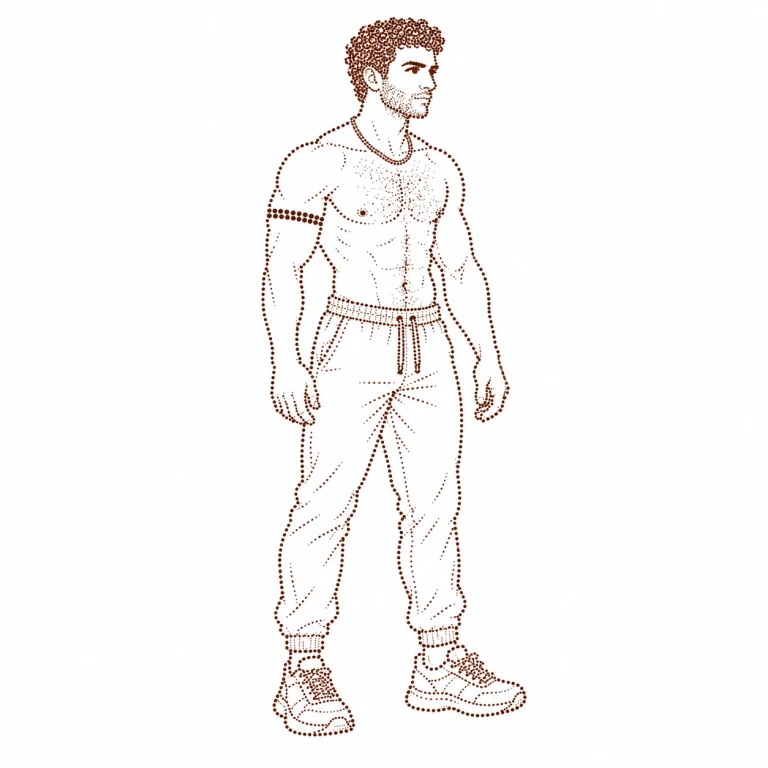
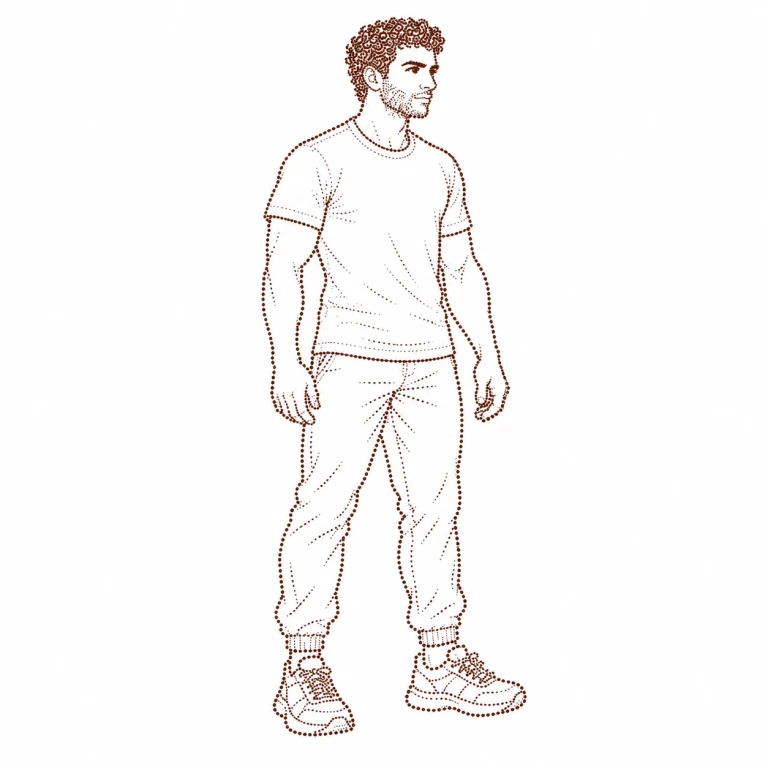
Clothe Body illustrations and improve WHOOP reconnection

diff --git a/scripts/scheduled_health.py b/scripts/scheduled_health.py
@@ -31,6 +31,7 @@ TOTAL_TIMEOUT = 600
 POLL_SECONDS = 15
 REFRESH_SECONDS = 3600
 RETRY_SECONDS = 300
+AUTH_RETRY_SECONDS = 3600
 WAKE_SETTLE_SECONDS = 30
 LOG_LIMIT = 64 * 1024
 MAX_RESPONSE = 8 * 1024 * 1024
@@ -275,7 +276,16 @@ def latest_wake():
         return None
 
 
-def refresh_due(previous, now, wake=None):
+def credential_version(dataset):
+    """Observe replacement credentials without reading or logging their contents."""
+    path = Path.home() / (".whoop-mcp/tokens.json" if dataset == "health" else ".config/hevy/api-key")
+    try:
+        return str(path.stat().st_mtime_ns)
+    except OSError:
+        return None
+
+
+def refresh_due(previous, now, wake=None, credentials=None):
     """Minute ticks do no network work until hourly, retry, or new-wake due."""
     started = timestamp_seconds(previous.get("started_at"))
     finished = timestamp_seconds(previous.get("finished_at"))
@@ -286,6 +296,13 @@ def refresh_due(previous, now, wake=None):
         return True, "initial"
     if started > now or success is not None and success > now or finished is not None and finished > now:
         return True, "clock_changed"
+    auth_failed = previous.get("error", {}).get("code") in {"whoop_auth_failed", "hevy_auth_failed"}
+    if auth_failed:
+        if credentials is not None and credentials != previous.get("credential_version"):
+            return True, "credentials_changed"
+        # Invalid grants need sign-in, not repeated token exchanges every five
+        # minutes. Keep an hourly fallback for externally repaired connections.
+        return now - max(started, finished or started) >= AUTH_RETRY_SECONDS, "authorization_required"
     if wake is not None and started < wake <= now:
         return True, "wake"
     # After a wake has triggered an attempt, its subsequent ticks obey backoff.
@@ -348,7 +365,7 @@ def run(cache=None, budget=TOTAL_TIMEOUT, respect_schedule=False):
         due_datasets = []
         for dataset in PUBLIC_URLS:
             old = previous_datasets.get(dataset, {})
-            due, reason = refresh_due(old, time.time(), wake) if respect_schedule else (True, "manual")
+            due, reason = refresh_due(old, time.time(), wake, credential_version(dataset)) if respect_schedule else (True, "manual")
             if due:
                 due_datasets.append(dataset)
         if respect_schedule:
@@ -367,7 +384,8 @@ def run(cache=None, budget=TOTAL_TIMEOUT, respect_schedule=False):
             # deployment stalls. Successful sources keep their hourly cadence.
             source_deadline = time.monotonic() + max(0, deadline - time.monotonic()) / (len(due_datasets) - index)
             source_status = {"status": "running", "started_at": utc_now(), "finished_at": None,
-                             "last_success_at": previous_datasets.get(dataset, {}).get("last_success_at")}
+                             "last_success_at": previous_datasets.get(dataset, {}).get("last_success_at"),
+                             "credential_version": credential_version(dataset)}
             status["datasets"][dataset] = source_status
             write_status(cache, status)
             try:
@@ -424,9 +442,14 @@ def run(cache=None, budget=TOTAL_TIMEOUT, respect_schedule=False):
 
 
 def main():
-    # launchd has private fallback stdout/stderr files, but ordinary runs are
-    # silent. Read scheduled-status.json for the bounded, sanitized result.
-    return 1 if run(respect_schedule=True)["status"] == "failed" else 0
+    previous = previous_status(CACHE).get("datasets", {}).get("health", {})
+    result = run(respect_schedule=True)
+    health = result.get("datasets", {}).get("health", {})
+    if (health.get("error", {}).get("code") == "whoop_auth_failed"
+            and previous.get("error", {}).get("code") != "whoop_auth_failed"):
+        print("WHOOP sign-in is required. Run ~/.local/share/whoop-codex/.venv/bin/python "
+              "~/.local/share/whoop-codex/health-sync/scripts/reconnect_whoop.py", file=sys.stderr)
+    return 1 if result["status"] == "failed" else 0
 
 
 if __name__ == "__main__":

diff --git a/scripts/test_scheduled_health.py b/scripts/test_scheduled_health.py
@@ -1,0 +1,57 @@
+import unittest
+from unittest.mock import patch
+from datetime import datetime, timezone
+import scheduled_health as scheduler
+import reconnect_whoop
+
+
+class SchedulingTests(unittest.TestCase):
+    def setUp(self):
+        self.now = datetime(2026, 10, 27, 22, tzinfo=timezone.utc).timestamp()
+        self.failed = dict(status='failed', started_at='2026-10-27T21:54:00Z',
+                           finished_at='2026-10-27T21:55:00Z', credential_version='old',
+                           error={'code': 'whoop_auth_failed'})
+
+    def test_reconnect_detected_on_next_tick(self):
+        self.assertEqual(scheduler.refresh_due(self.failed, self.now, credentials='new'),
+                         (True, 'credentials_changed'))
+
+    def test_revoked_grant_is_not_retried_every_five_minutes(self):
+        self.assertEqual(scheduler.refresh_due(self.failed, self.now, credentials='old'),
+                         (False, 'authorization_required'))
+
+    def test_auth_fallback_retries_hourly(self):
+        self.assertEqual(scheduler.refresh_due(self.failed, self.now + 3300, credentials='old'),
+                         (True, 'authorization_required'))
+
+    def test_network_failure_keeps_five_minute_retry(self):
+        self.failed['error']['code'] = 'network_unavailable'
+        self.assertEqual(scheduler.refresh_due(self.failed, self.now, credentials='old'), (True, 'retry'))
+
+    def test_new_wake_refreshes_healthy_source(self):
+        self.failed.update(status='success', last_success_at='2026-10-27T21:55:00Z', error={})
+        self.assertEqual(scheduler.refresh_due(self.failed, self.now, self.now - 60), (True, 'wake'))
+
+    def test_waits_for_network_after_wake(self):
+        self.assertEqual(scheduler.refresh_due(self.failed, self.now, self.now - 10, 'new'),
+                         (False, 'wake_settling'))
+
+    def test_missing_credentials_back_off(self):
+        self.assertEqual(scheduler.refresh_due(self.failed, self.now), (False, 'authorization_required'))
+
+    def test_reconnect_failure_does_not_publish(self):
+        with patch('reconnect_whoop.subprocess.run') as auth, patch('reconnect_whoop.scheduled_health.run') as publish:
+            auth.return_value.returncode = 1
+            self.assertEqual(reconnect_whoop.main(), 1)
+            publish.assert_not_called()
+
+    def test_reconnect_verifies_live_publication(self):
+        with patch('reconnect_whoop.subprocess.run') as auth, patch('reconnect_whoop.scheduled_health.run') as publish:
+            auth.return_value.returncode = 0
+            publish.return_value = {'datasets': {'health': {'status': 'success', 'generated_at': '2026-10-27T22:00:00Z'}}}
+            self.assertEqual(reconnect_whoop.main(), 0)
+            publish.assert_called_once_with()
+
+
+if __name__ == '__main__':
+    unittest.main()

diff --git a/scripts/reconnect_whoop.py b/scripts/reconnect_whoop.py
@@ -1,0 +1,38 @@
+#!/usr/bin/env python3
+"""Reconnect the existing private WHOOP integration, then verify publication."""
+import json
+from pathlib import Path
+import subprocess
+import sys
+
+import scheduled_health
+
+
+def main():
+    connector = Path.home() / ".local/share/whoop-codex/whoop_mcp_server.py"
+    print("Opening WHOOP sign-in in your browser. Complete sign-in and grant the existing integration access.", flush=True)
+    try:
+        # The connector opens the browser itself. Its OAuth URL and provider
+        # diagnostics must never enter public logs or the repository.
+        result = subprocess.run([sys.executable, str(connector), "auth"], capture_output=True, timeout=360)
+    except (OSError, subprocess.TimeoutExpired):
+        print("WHOOP sign-in did not complete. Run this command again when ready.")
+        return 1
+    if result.returncode:
+        print("WHOOP sign-in did not complete. Run this command again when ready.")
+        return 1
+    print("WHOOP connected. Refreshing data and verifying the live site…", flush=True)
+    result = scheduled_health.run()
+    health = result.get("datasets", {}).get("health", {})
+    if health.get("status") == "success":
+        print(json.dumps({"status": "success", "generated_at": health.get("generated_at"), "site": "https://alibytes.com/#body"}))
+        return 0
+    if result.get("reason") == "scheduler_in_progress":
+        print("WHOOP connected. The active updater will finish; the next minute check detects the new credentials if needed.")
+        return 0
+    print(json.dumps({"status": "failed", "error": health.get("error") or result.get("error") or {"code": "refresh_failed"}}))
+    return 1
+
+
+if __name__ == "__main__":
+    sys.exit(main())

diff --git a/scripts/install_health_agent.py b/scripts/install_health_agent.py
@@ -13,7 +13,7 @@ import sys
 import tempfile
 
 LABEL = "com.aliestaha.health-sync"
-SCRIPTS = ("scheduled_health.py", "refresh_health.py", "export_whoop.py", "export_hevy.py", "publish_health.py")
+SCRIPTS = ("scheduled_health.py", "refresh_health.py", "export_whoop.py", "export_hevy.py", "publish_health.py", "reconnect_whoop.py")
 
 
 def atomic_write(path, content, mode=0o600):

diff --git a/HEALTH.md b/HEALTH.md
@@ -12,7 +12,7 @@ The strength illustrations share one gym room. Each station has a faded figure s
 
 ## Automatic refresh
 
-The macOS LaunchAgent `com.aliestaha.health-sync` checks each minute and refreshes hourly, after waking, or five minutes after a failure. The Mac must be awake, online, and logged in. Closing Codex has no effect. The dashboard keeps the last good data and marks it stale after three hours.
+The macOS LaunchAgent `com.aliestaha.health-sync` checks each minute and refreshes hourly, after waking, or five minutes after a transient failure. It allows 30 seconds after waking for the network to settle. The Mac must be awake, online, and logged in. Closing Codex has no effect. The dashboard keeps the last good data and marks it stale after three hours. Rejected authorizations back off to hourly checks; replacing the saved credentials triggers a refresh on the next minute check. Credentials are detected by file modification time, without reading their contents into scheduler status.
 
 The installed runtime is `~/.local/share/whoop-codex/health-sync/`. WHOOP credentials stay under `~/.whoop-mcp/`; the Hevy API key is in the private file `~/.config/hevy/api-key`. The read-only Hevy client is installed at `~/.local/share/hevy-codex/hevy_connector.py` and is registered as the `hevy` Codex MCP server. The checkout can move without stopping the service.
 
@@ -40,10 +40,14 @@ cat ~/.local/share/whoop-codex/health-cache/scheduled-status.json
 Sanitized logs are in the same private cache directory. If status reports `whoop_auth_failed`, reconnect:
 
 ```sh
-~/.local/share/whoop-codex/.venv/bin/python ~/.local/share/whoop-codex/whoop_mcp_server.py auth
+~/.local/share/whoop-codex/.venv/bin/python ~/.local/share/whoop-codex/health-sync/scripts/reconnect_whoop.py
 ```
 
-Complete sign-in on WHOOP's browser page. The next attempt uses the new tokens.
+Complete sign-in on WHOOP's browser page. This helper then refreshes and publishes the data and verifies the live site. If an updater is already running, the next minute check detects the new credentials. The first authorization failure also writes a reconnect instruction to the private `launchd-error.log`. No browser is opened automatically by background checks.
+
+The connector already serializes rotating-token refreshes across processes and saves tokens atomically. Normal access-token expiration is handled automatically. A revoked or rejected refresh token still requires WHOOP sign-in; an awake laptop cannot override the provider's authorization decision. The October 27 repair confirmed an HTTP 400 on the previous refresh token and restored access with fresh authorization; the original reason WHOOP rejected that token was not established.
+
+Scheduler regression checks: `python -m unittest discover -s scripts -p 'test_*.py'`.
 
 For `hevy_auth_failed`, generate a replacement key at `https://hevy.com/settings?developer` and save it through the local form:
 
